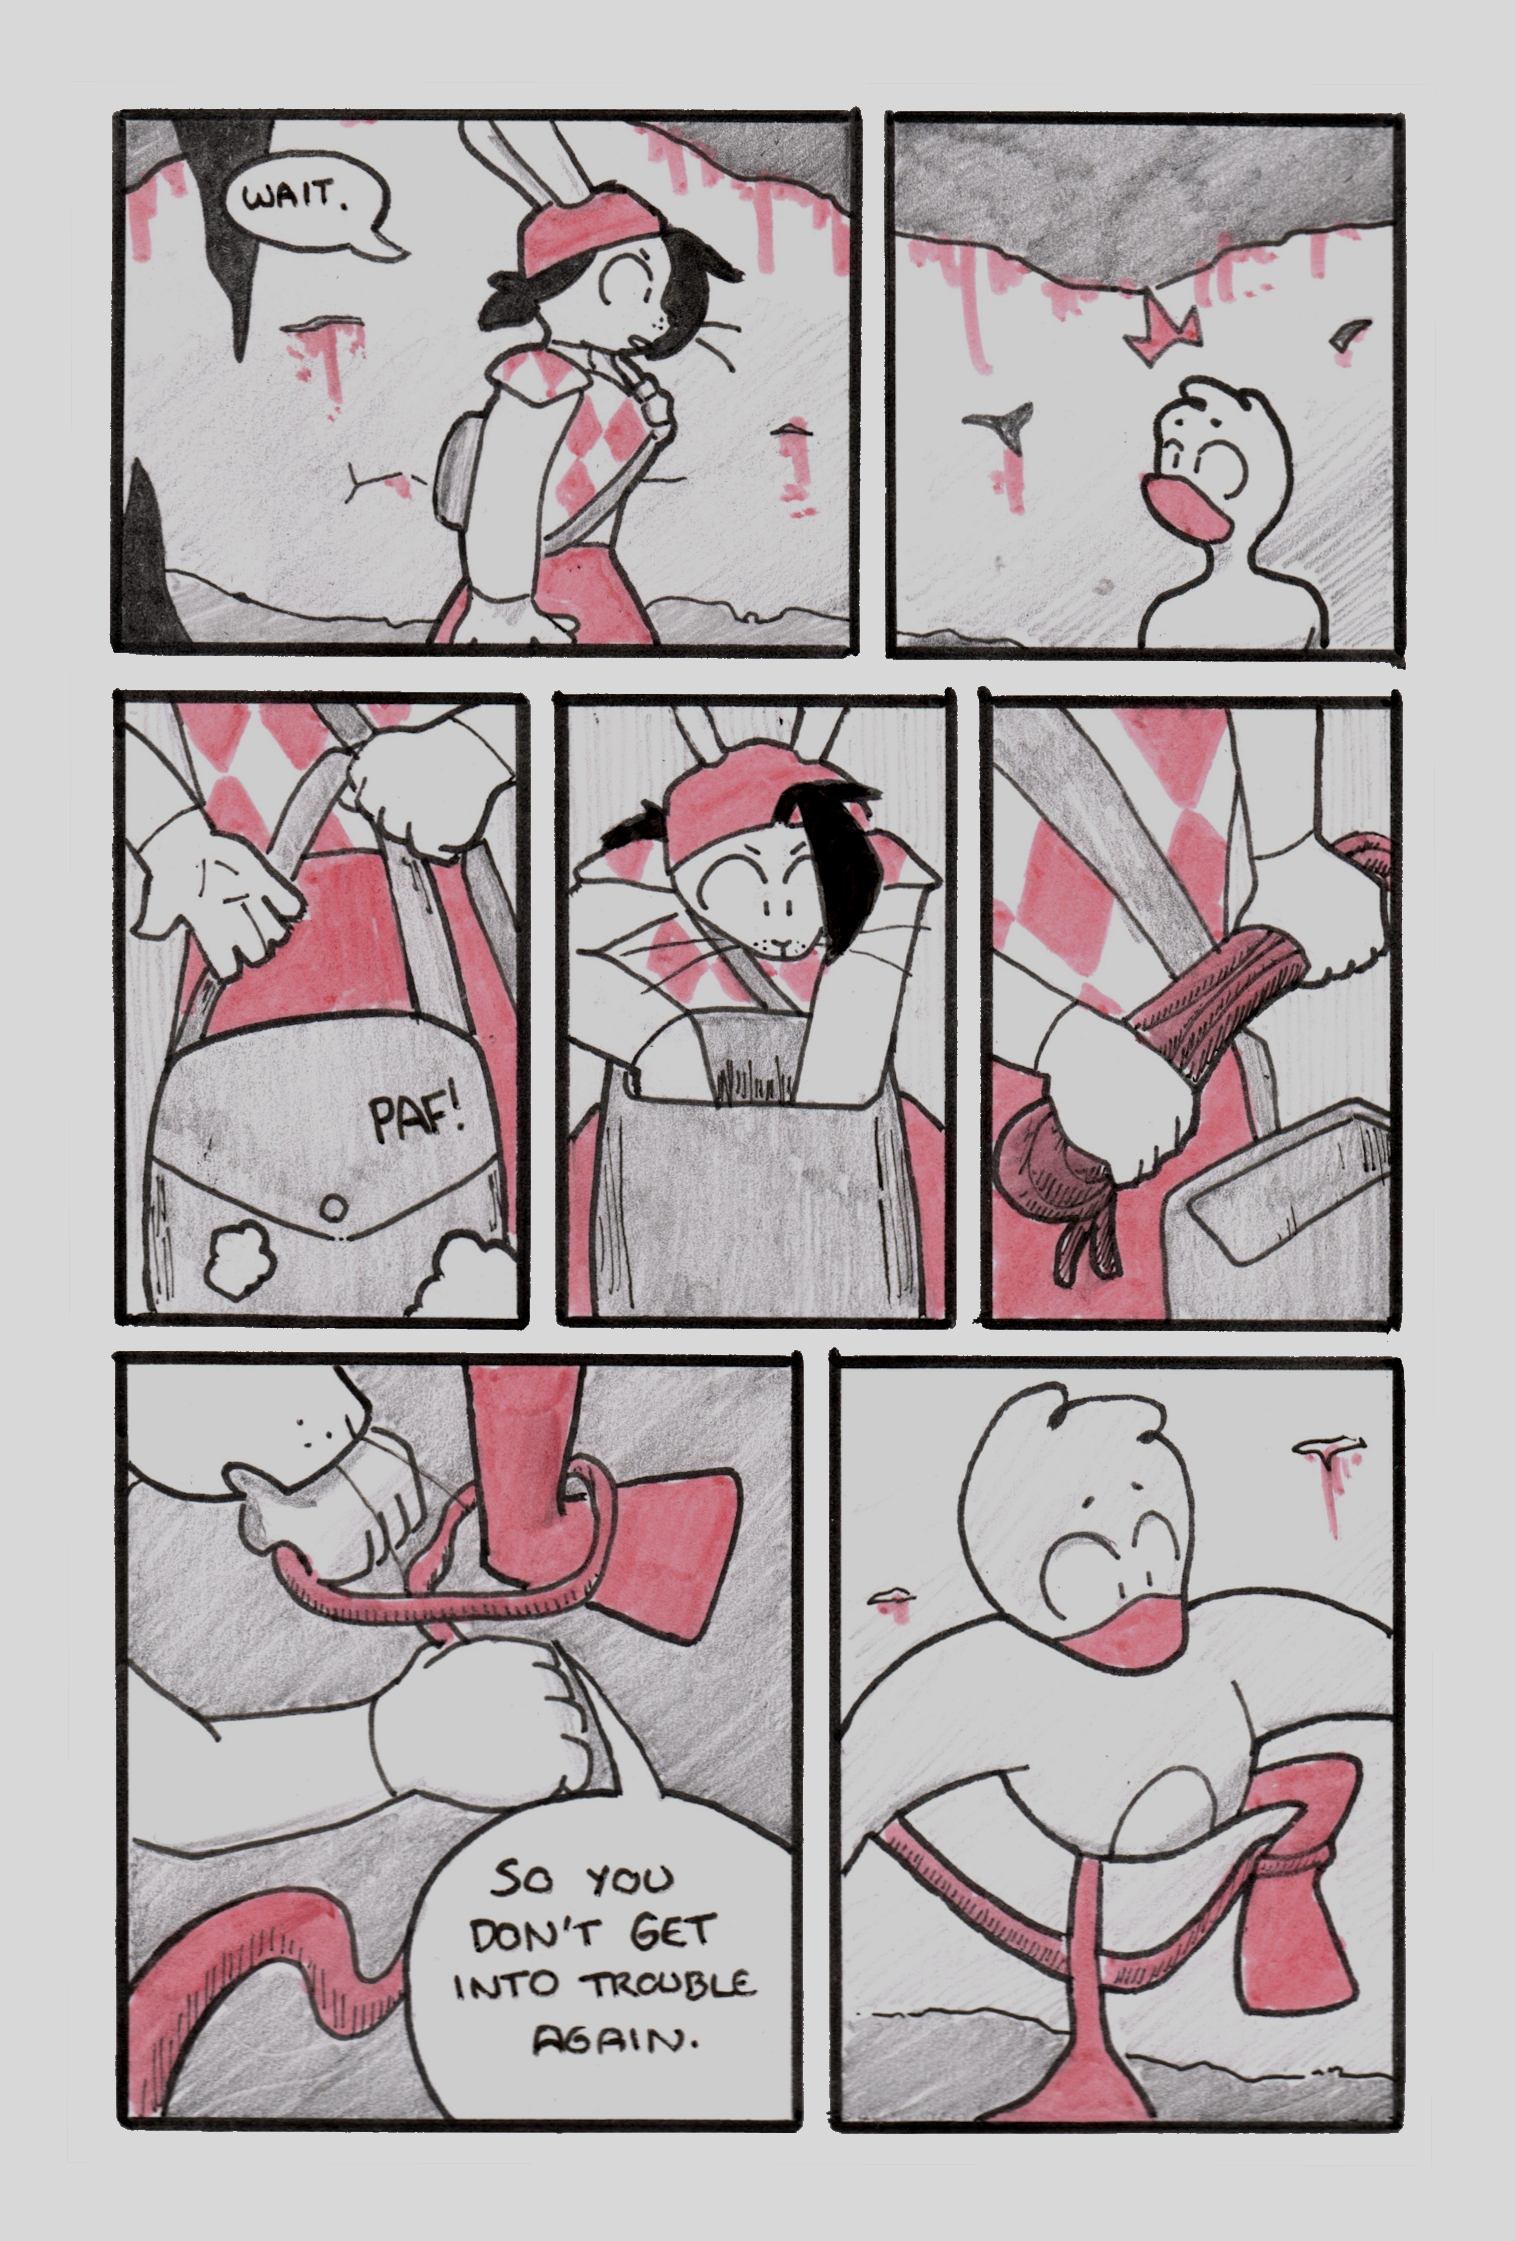
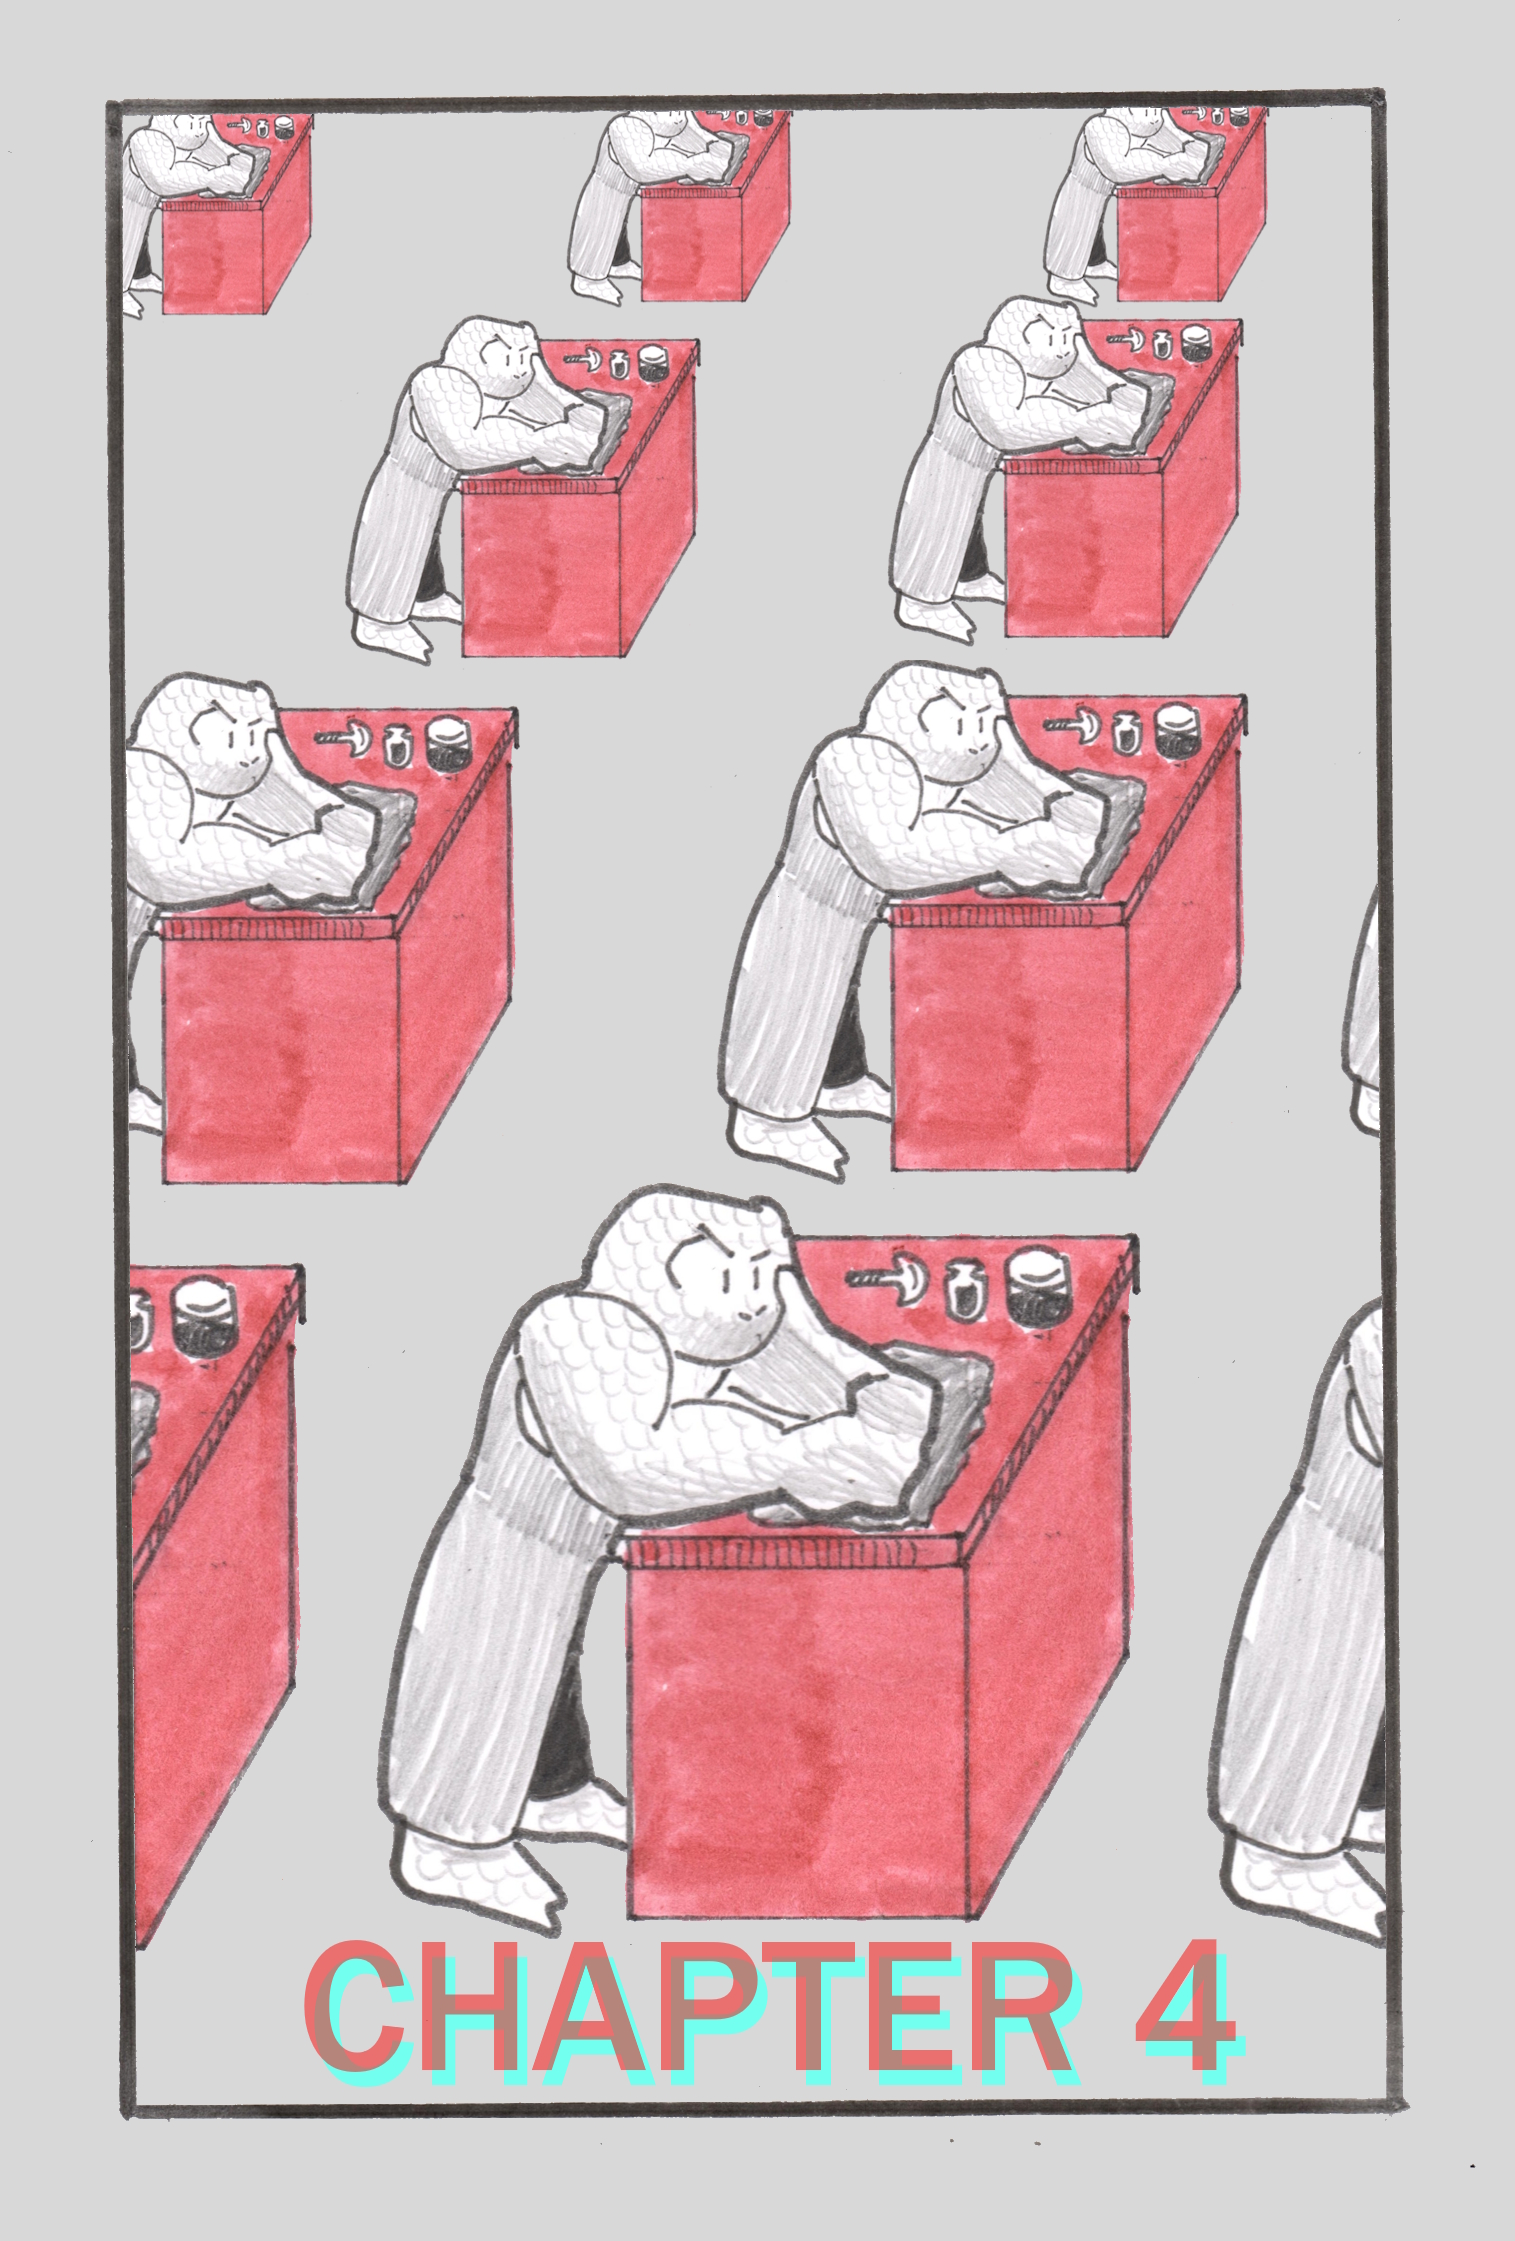
Chapter 4.

diff --git a/blogs/5.php b/blogs/5.php
@@ -1,0 +1,16 @@
+<p>In this chapter, the rabbit and the duck enter the young world at the center, the apex, or the core. Nesting dolls.</p>
+<p>Although I finished chapter 3 in December, I was slow to start this chapter. It's because I was pursuing other artistic ideas, but please don't think my child isn't taken care of...! As for the slowness to complete it, however, there's no one to blame. I'm trying to say, "I've completed half the book. My energy is threatening to flag." This even though the remaining half of the book will be shorter than the first.</p>
+<p>When I began IA IA IA, I knew what it was about. At the beginning of the year, I became worried it was trite. Even so, I'm beginning to think it's "more correct." In a situation like this, you might say it's over correct.</p>
+<p>I am interested in psychodynamic ideas.</p>
+<p>Last time, we talked about material that might be interesting to little ducks. Here is the promised second half.</p>
+<ul>
+    <li>Prowlies at the River (Adam Phillips, 2007)</li>
+    <li>Down to the Moon (Andreas Vollenweider, 1986)</li>
+    <li>Untitled (naran ratan, 2024)</li>
+    <li>Another Green World (Brian Eno, 1975)</li>
+    <li>Stone Butch Blues (Leslie Feinberg, 1993)</li>
+    <li>Dragon Ball (Akira Toriyama, 1984-1995)</li>
+    <li>The Adventures of Tintin (Herge, 1929-1976)</li>
+    <li>Ezra (Bible)</li>
+</ul>
+<p><a href="/read/49">Chapter 4 of IA IA IA is here.</a> Please enjoy it.</p>
